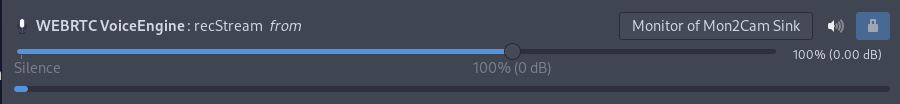
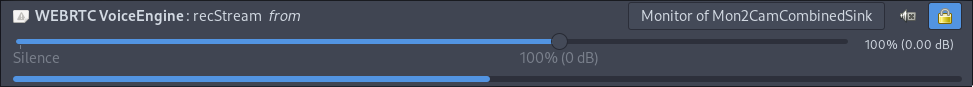
Modified the readme regarding audio support

diff --git a/README.md b/README.md
@@ -55,11 +55,9 @@ INFO The screen will look mirrored for you, not others
 
 ## Audio routing
 
-There is a built in audio streaming feature, but it's quite **experimental**. It uses _pulseaudio_ to route the audio of your microphone (or any other input) and the sound of any selected output(application) into a virtual sink which then you can select as an input in discord.
+There is audio routing built into Mon2Cam, which you can use with the -s flag. It's interactive, so it's not hard to use, but keep in mind that it may still have bugs. Also, it probably introduces some latency, however this wasn't tested and is probably quite tiny. (I haven't noticed any difference.)
 
-To use, pass the `-s` option, select the appropriate applications and sources (You have to pass a space separated list of ids, or a single id). Then, set the default recording device to be the VirtualSink Monitor and then instruct discord to record from the monitor of the VirtualSink. After this, you should disable noise cancellation and noise reduction in discord, to achieve a good quality stream.
-
-Also **note** that in the current implementation, if you use this feature, you won't be able to hear the selected application(s), only the people listening to the stream. You can workaround this by using a command like: `ffplay -f pulse -i default -nodisp` and then changing the recorded source in _pavucontrol_, however you will also hear any inputs that you might have passed (so if you passed your microphone, you will hear yourself).
+Mon2Cam will try to detect if discord is trying to record, and then switch it's input to the Mon2Cam combined sink, but you may have to do it manually. You should also disable echo cancellation, because discord will detect most audio as echo.
 
 ![Screenshot_Pavucontrol](images/pavucontrol.png)
 
